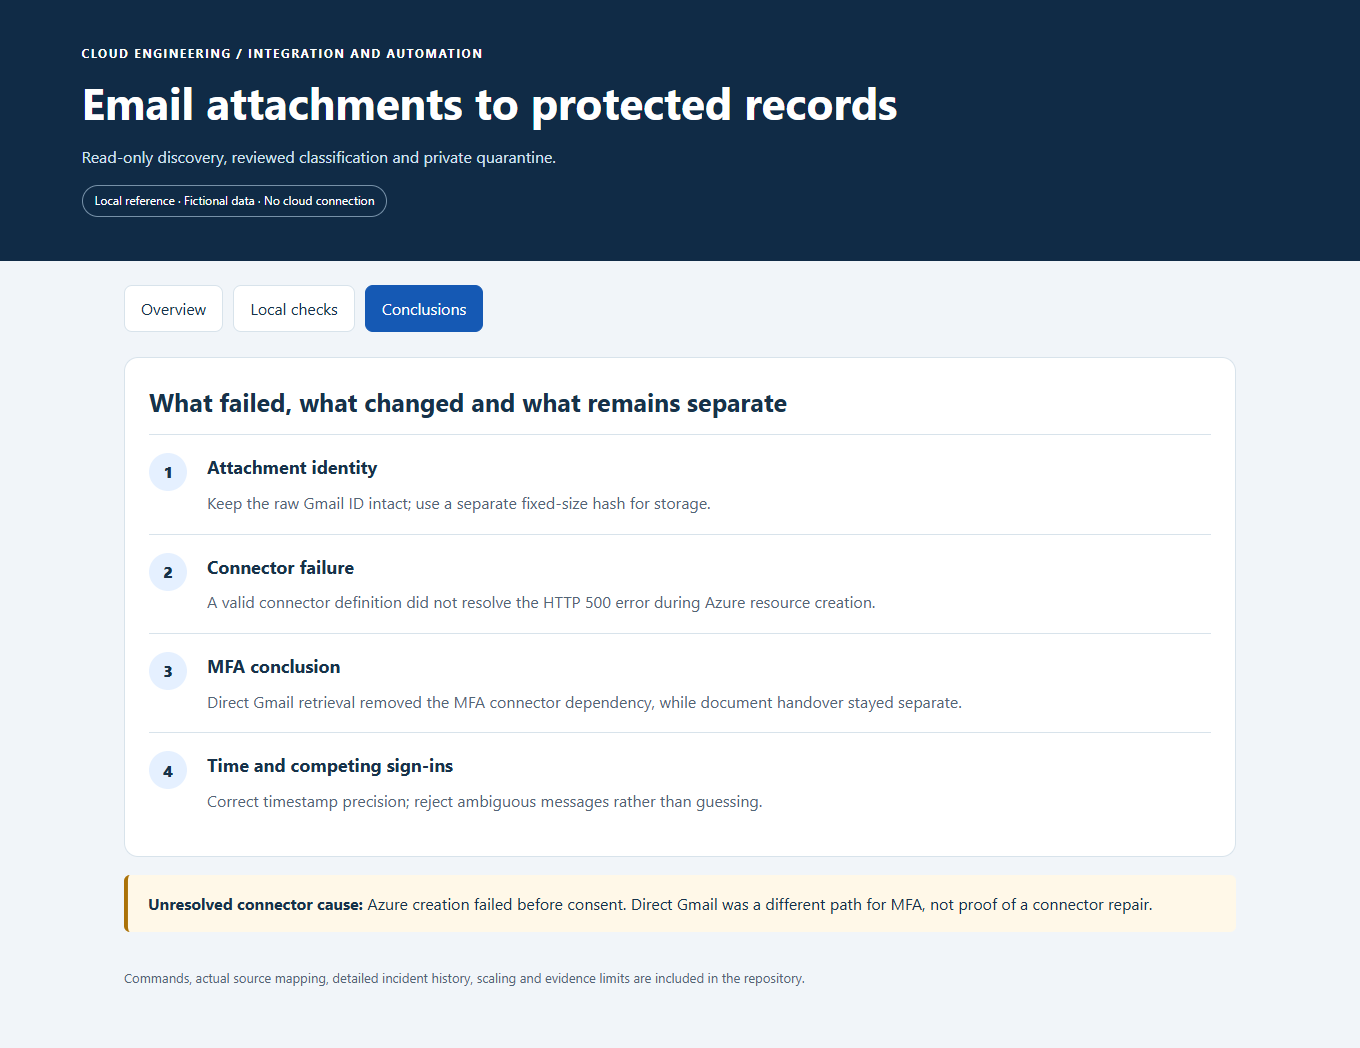
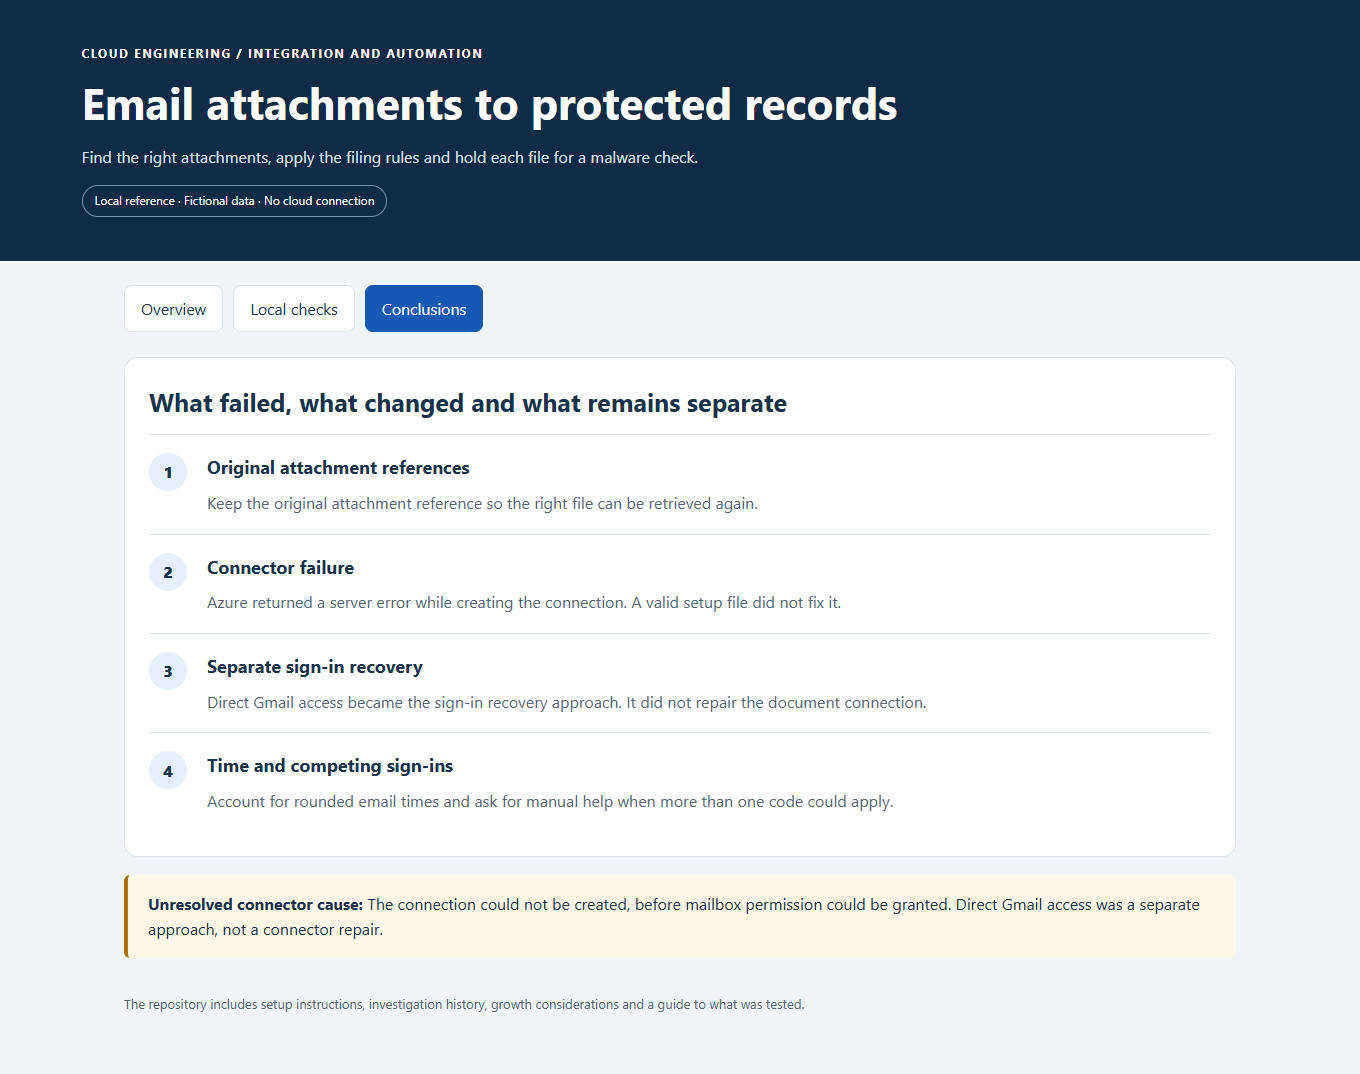
Lead with plain business explanations and retain technical detail separately

diff --git a/preview/index.html b/preview/index.html
@@ -1,10 +1,10 @@
 <!doctype html><html lang="en"><head><meta charset="utf-8"><meta name="viewport" content="width=device-width,initial-scale=1"><title>Email attachments to protected records</title><style>
 :root{color-scheme:light;--navy:#102b46;--ink:#17324a;--muted:#536576;--line:#d8e3eb;--blue:#1559b4;--teal:#086b5c}*{box-sizing:border-box}body{margin:0;background:#f1f5f9;color:var(--ink);font:16px/1.6 system-ui,sans-serif}header{background:var(--navy);color:white;padding:44px max(6vw,20px)}header p{max-width:780px;color:#d3e3f2}h1{font-size:clamp(29px,4vw,44px);line-height:1.15;max-width:850px;margin:14px 0}h2{font-size:25px;margin:0 0 12px}h3{font-size:18px;margin:0 0 8px}.eyebrow{text-transform:uppercase;letter-spacing:.13em;font-size:12px;font-weight:750}.pill{border:1px solid #7791a8;border-radius:20px;padding:5px 12px;font-size:12px;display:inline-block}main{max-width:1160px;margin:auto;padding:24px}nav{display:flex;gap:10px;flex-wrap:wrap;margin-bottom:25px}button{font:inherit;cursor:pointer;border:1px solid var(--line);background:white;color:var(--ink);border-radius:8px;padding:10px 16px}button[aria-selected=true]{background:var(--blue);color:white;border-color:var(--blue)}button:focus-visible{outline:3px solid #c98913;outline-offset:3px}.grid{display:grid;grid-template-columns:repeat(3,minmax(0,1fr));gap:18px}.card,.box{background:white;border:1px solid var(--line);border-radius:14px;padding:24px;margin-bottom:18px}.card p{color:var(--muted)}.big{font-size:27px;font-weight:750;color:var(--blue)}.note{padding:16px 20px;border-left:4px solid #ab7208;background:#fff8e8;border-radius:6px;margin:16px 0 24px}.step{display:grid;grid-template-columns:42px 1fr;gap:16px;padding:18px 0;border-top:1px solid var(--line)}.number{background:#e5f0ff;border-radius:50%;width:38px;height:38px;display:grid;place-items:center;font-weight:800}.step p{margin:0;color:var(--muted)}.table-wrap{overflow:auto}table{border-collapse:collapse;width:100%;text-align:left}th,td{border-bottom:1px solid var(--line);padding:13px 10px;vertical-align:top}th{font-size:13px;background:#edf3f8}.pass{color:var(--teal);font-weight:750}.blocked{color:#8a3b0a;font-weight:750}code{background:#edf3f8;border-radius:4px;padding:2px 5px;overflow-wrap:anywhere}footer{color:var(--muted);font-size:13px;padding:12px 0 35px}[hidden]{display:none!important}@media(max-width:700px){main{padding:16px}header{padding:30px 20px}.grid{grid-template-columns:1fr}.card,.box{padding:18px}th,td{padding:10px 7px;font-size:14px}}
 </style></head><body>
-    <header><div class="eyebrow">Cloud engineering / Integration and automation</div><h1>Email attachments to protected records</h1><p>Read-only discovery, reviewed classification and private quarantine.</p><span class="pill">Local reference · Fictional data · No cloud connection</span></header><main>
+    <header><div class="eyebrow">Cloud engineering / Integration and automation</div><h1>Email attachments to protected records</h1><p>Find the right attachments, apply the filing rules and hold each file for a malware check.</p><span class="pill">Local reference · Fictional data · No cloud connection</span></header><main>
     <nav role="tablist" aria-label="Project sections"><button id="tab-overview" role="tab" aria-controls="overview" aria-selected="true">Overview</button><button id="tab-checks" role="tab" aria-controls="checks" aria-selected="false">Local checks</button><button id="tab-conclusions" role="tab" aria-controls="conclusions" aria-selected="false">Conclusions</button></nav>
-    <section id="overview" role="tabpanel" aria-labelledby="tab-overview"><div class="grid"><article class="card"><div class="big">1</div><p>Find candidates with a five-minute schedule and a fixed query per run.</p></article><article class="card"><div class="big">2</div><p>Inspect nested email parts before retrieving qualifying attachments.</p></article><article class="card"><div class="big">3</div><p>Keep original identity and byte fingerprints for duplicate protection.</p></article></div><article class="box"><h2>Two related integrations. Different outcomes.</h2><p>The original document path uses Logic Apps, a custom Gmail connector, classification and quarantine. The later MFA attempt encountered connector creation failures and moved to direct Gmail API access.</p><p>Reusing an OAuth application does not share mailbox permission or processing history. Each integration must be authorized and checked separately.</p></article><div class="note"><strong>What this preview shows:</strong> Actual selected source and dated conclusions are included. This viewer performs no mailbox reads, code requests or cloud operations.</div></section>
-    <section id="checks" role="tabpanel" aria-labelledby="tab-checks" hidden><div class="box"><h2>Actual rules. Fictional inputs.</h2><p id="scope"></p><div class="table-wrap"><table><thead><tr><th>Scenario</th><th>Decision</th><th>Observed rule output</th></tr></thead><tbody id="results"></tbody></table></div></div><div class="note">A passing local rule does not prove a live OAuth grant, database claim, malware result or completed provider sign-in.</div></section>
-    <section id="conclusions" role="tabpanel" aria-labelledby="tab-conclusions" hidden><div class="box"><h2>What failed, what changed and what remains separate</h2><div class="step"><div class="number">1</div><div><h3>Attachment identity</h3><p>Keep the raw Gmail ID intact; use a separate fixed-size hash for storage.</p></div></div><div class="step"><div class="number">2</div><div><h3>Connector failure</h3><p>A valid connector definition did not resolve the HTTP 500 error during Azure resource creation.</p></div></div><div class="step"><div class="number">3</div><div><h3>MFA conclusion</h3><p>Direct Gmail retrieval removed the MFA connector dependency, while document handover stayed separate.</p></div></div><div class="step"><div class="number">4</div><div><h3>Time and competing sign-ins</h3><p>Correct timestamp precision; reject ambiguous messages rather than guessing.</p></div></div></div><div class="note"><strong>Unresolved connector cause:</strong> Azure creation failed before consent. Direct Gmail was a different path for MFA, not proof of a connector repair.</div></section>
-    <footer>Commands, actual source mapping, detailed incident history, scaling and evidence limits are included in the repository.</footer></main>
+    <section id="overview" role="tabpanel" aria-labelledby="tab-overview"><div class="grid"><article class="card"><div class="big">1</div><p>Look for relevant messages every five minutes, keeping the same search throughout the run.</p></article><article class="card"><div class="big">2</div><p>Inspect nested email parts before retrieving qualifying attachments.</p></article><article class="card"><div class="big">3</div><p>Keep the original attachment reference and a file fingerprint to help prevent duplicate processing.</p></article></div><article class="box"><h2>Two related integrations. Different outcomes.</h2><p>One project files email documents. Another helps restore a business sign-in using an emailed code. They share some history, but use different processing steps and have different results.</p><p>Using the same Google application does not automatically share mailbox permission or processing records. Each connection must be authorized and checked separately.</p></article><div class="note"><strong>What this preview shows:</strong> The repository includes selected implementation code and historical results. This viewer uses fictional data and does not read email or connect to cloud services.</div></section>
+    <section id="checks" role="tabpanel" aria-labelledby="tab-checks" hidden><div class="box"><h2>Try the rules with fictional examples.</h2><p id="scope"></p><div class="table-wrap"><table><thead><tr><th>Scenario</th><th>Decision</th><th>Detailed test output</th></tr></thead><tbody id="results"></tbody></table></div></div><div class="note">Passing these examples does not confirm a working live connection or completed sign-in.</div></section>
+    <section id="conclusions" role="tabpanel" aria-labelledby="tab-conclusions" hidden><div class="box"><h2>What failed, what changed and what remains separate</h2><div class="step"><div class="number">1</div><div><h3>Original attachment references</h3><p>Keep the original attachment reference so the right file can be retrieved again.</p></div></div><div class="step"><div class="number">2</div><div><h3>Connector failure</h3><p>Azure returned a server error while creating the connection. A valid setup file did not fix it.</p></div></div><div class="step"><div class="number">3</div><div><h3>Separate sign-in recovery</h3><p>Direct Gmail access became the sign-in recovery approach. It did not repair the document connection.</p></div></div><div class="step"><div class="number">4</div><div><h3>Time and competing sign-ins</h3><p>Account for rounded email times and ask for manual help when more than one code could apply.</p></div></div></div><div class="note"><strong>Unresolved connector cause:</strong> The connection could not be created, before mailbox permission could be granted. Direct Gmail access was a separate approach, not a connector repair.</div></section>
+    <footer>The repository includes setup instructions, investigation history, growth considerations and a guide to what was tested.</footer></main>
     <script>const tabs=[...document.querySelectorAll('[role=tab]')];function select(tab){for(const t of tabs){t.setAttribute('aria-selected',String(t===tab));document.getElementById(t.getAttribute('aria-controls')).hidden=t!==tab}}for(const tab of tabs){tab.addEventListener('click',()=>select(tab));tab.addEventListener('keydown',e=>{if(['ArrowLeft','ArrowRight'].includes(e.key)){e.preventDefault();const next=tabs[(tabs.indexOf(tab)+(e.key==='ArrowRight'?1:-1)+tabs.length)%tabs.length];select(next);next.focus()}})}fetch('/data.json').then(r=>{if(!r.ok)throw Error('Reference data could not be loaded');return r.json()}).then(data=>{document.getElementById('scope').textContent=data.scope;for(const values of data.results){const tr=document.createElement('tr');for(const value of values){const td=document.createElement('td');td.textContent=value;tr.append(td)}document.getElementById('results').append(tr)}}).catch(e=>{const p=document.createElement('p');p.setAttribute('role','alert');p.textContent=e.message;document.querySelector('main').prepend(p)});</script></body></html>

diff --git a/README.md b/README.md
@@ -1,6 +1,6 @@
 # Email Document Ingestion with Azure Logic Apps
 
-**Move qualifying email attachments into protected business records without manually filing every message.**
+**Automatically file selected email attachments and keep a record of where they came from.**
 
 [Business problem](#the-business-problem) · [Solution](#the-solution) · [Build issues](#what-went-wrong-and-what-we-learned) · [Proof](#proof-it-works) · [Commands](docs/COMMANDS.md)
 
@@ -8,55 +8,59 @@
 
 ## The Business Problem
 
-Important authorization documents arrived as email attachments. Leaving them in an inbox made filing, retrieval and audit preparation harder. Automatically downloading everything would create a different problem: unrelated files, duplicates and unchecked documents entering business records.
+Important documents arrived as email attachments. Keeping them in an inbox made filing, retrieval and audit preparation harder. Downloading every attachment would also bring in unrelated, duplicate or unchecked files.
 
 ## The Solution
 
-Use a scheduled Consumption Logic App to find candidate messages through a read-only Gmail connector. Have the application API inspect attachments within the message and check the approved sender, filename and any extra message rules. Retrieve only qualifying attachments, preserve their origin and place the files in a private quarantine container for malware checking.
+I used Azure Logic Apps, a service for connecting scheduled tasks, to look for relevant messages. The application checks the sender, filename and filing rules before retrieving an attachment.
 
-**Business outcome:** A repeatable filing path ties each accepted document to its source and rule version. Duplicate protection reduces repeat processing when polling windows overlap. The project does not claim measured time savings or a complete mailbox migration.
+Selected files go into private storage for a malware check. The application keeps their source details and checks for duplicates.
+
+**Business outcome:** The implementation provides a repeatable filing process with a traceable source for each accepted document. The project also records a later connector replacement that remained blocked; it does not claim a completed mailbox migration.
 
 ## Architecture
 
 ```mermaid
 flowchart LR
-  Mail[Authorized Gmail inbox] --> Connector[Read-only custom connector]
-  Connector --> Logic[Five-minute Logic App]
-  Logic --> Planner[API checks message parts and filing rules]
-  Planner --> Selected[Fetch selected attachment]
-  Selected --> API[Inbound document API]
-  API --> Ledger[SQL source records and duplicate protection]
-  API --> Quarantine[Private Blob quarantine]
-  Quarantine --> Scan[Separate Defender and scan-processing chain]
-  Scan --> Trusted[Trusted document and metadata]
+  Inbox[Authorized email inbox] --> Schedule[Look for relevant messages every five minutes]
+  Schedule --> Rules[Check attachment and filing rules]
+  Rules --> History[Record the source and check for duplicates]
+  History --> Hold[Hold the file in private storage]
+  Hold --> Scan[Run the separate malware check]
+  Scan --> Available[Make eligible files available to authorized staff]
 ```
 
-Gmail OAuth authorizes mailbox reads. The Logic App's managed identity authorizes calls to the application API. Those are separate permissions. The API requires an application role; its own authentication middleware handles access.
+Permission to read Gmail is separate from permission to save documents in the application.
 
 ## What Was Built
 
-| Component | Purpose | Included implementation |
+| Part | What it does | Details |
 | --- | --- | --- |
-| Read-only Gmail contract | List messages, read a message and retrieve a selected attachment | [OpenAPI](contracts/gmail-readonly.openapi.json) |
-| Scheduled ingestion process | Five-minute recurrence, fixed search per run, pagination, protected action history and managed-identity API calls | [Terraform](infra/logic-app/main.tf) |
-| Attachment selection | Check nested message parts and select attachments that match exactly one configured rule | [Planner](src/planner/inboundgmailmessageplan.ts) |
-| Upload validation and duplicate checks | Validate bytes and metadata; preserve raw attachment IDs; calculate fingerprints and duplicate identity | [Contract](src/contracts/inboundDocumentIngestion.ts), [rules](src/documents/inboundDocumentRules.ts) |
-| API and database integration | SQL ledger, replay/conflict handling and full route dependencies | [Route](reference/inbounddocumentingestion-route.ts), [SQL](reference/037-inbound-document-ledger.sql) |
-| Historical conclusions | Distinguish original ingestion repairs from the later MFA connector attempt | [Issues and conclusions](docs/ISSUES-AND-CONCLUSIONS.md) |
+| Scheduled email search | Finds possible documents and handles multiple pages of results. | [Logic App definition](infra/logic-app/main.tf) |
+| Filing rules | Selects attachments that match exactly one approved rule. | [Selection code](src/planner/inboundgmailmessageplan.ts) |
+| File checks | Validates the submitted file and its identifying details. | [Upload checks](src/contracts/inboundDocumentIngestion.ts) |
+| Processing records | Tracks the original message and attachment and distinguishes a retry from different content. | [Application code](reference/inbounddocumentingestion-route.ts) and [database](reference/037-inbound-document-ledger.sql) |
+| Investigation history | Explains what was repaired and what remained unresolved. | [Issues and conclusions](docs/ISSUES-AND-CONCLUSIONS.md) |
 
 ## What Went Wrong and What We Learned
 
-| Problem | Conclusion or correction |
+| Issue | What changed or remained unresolved |
 | --- | --- |
-| Gmail attachment IDs exceeded a 200-character assumption | Keep the original ID intact. Use a domain-separated hash when a fixed-size database reference is needed. |
-| Successful historical Logic App runs did not expose the expected retained Response output | The expected output was unavailable. A separate controlled read recovered the needed metadata instead of repeatedly requesting missing run output. |
-| Recalculating a time-based search between pages moved the query boundary | The replacement source captures one query and reuses it on every page. The code correction is included; a live replacement test was not completed. |
-| Replacement connector creation returned Azure HTTP 500 before OAuth | No confirmed connector root cause or successful replacement commissioning was established. Longer timeouts and valid OpenAPI alone were not a fix. |
-| A later provider MFA effort encountered the connector problem too | Direct Gmail API access became the separate MFA solution. It did not repair or replace document ingestion. |
+| Some attachment identifiers were longer than expected. | The code now preserves the full identifier and uses a separate fixed-size reference for storage. |
+| The email search could change while reading later pages. | The replacement code keeps one search for the whole run. A live replacement test was not completed. |
+| A replacement connector failed during Azure resource creation. | Valid setup instructions did not resolve the service error. Its underlying cause remained unknown. |
+| A later sign-in recovery effort hit the same connector problem. | Direct Gmail access became the separate recovery approach; it did not repair this document connector. |
 
-See [the linked Gmail access and MFA project](https://github.com/truthofsource/gmail-api-access-and-mfa-recovery) for that conclusion, OAuth lifecycle and the timestamp-precision repair.
+[Read the investigation](docs/ISSUES-AND-CONCLUSIONS.md) or see the separate [Gmail recovery project](https://github.com/truthofsource/gmail-api-access-and-mfa-recovery).
 
 ## Proof It Works
+
+**32 recorded local tests passed** using fictional messages. They checked attachment selection, conflicting rules, long identifiers and repeat-processing decisions. Two infrastructure test cases used simulated Azure responses.
+
+These checks tested the included code and disabled setup example. They did not read a live mailbox or establish that the replacement connector worked. [Full results](docs/VALIDATION.md).
+
+<details>
+<summary>For engineers: detailed results, examples and commands</summary>
 
 ### 1. Run the extracted rules
 
@@ -87,15 +91,18 @@ python -B scripts/preview.py --port 8141
 
 Open [the local reference](http://127.0.0.1:8141). The Terraform tests use simulated Azure responses. By default, the example creates no workflow; choosing to create it still leaves its execution disabled. No `apply` is required or performed.
 
+</details>
+
 ## Strengths, Weaknesses and Tradeoffs
 
-| Choice | Strength | Limitation |
-| --- | --- | --- |
-| Logic Apps orchestration | Makes schedules and processing steps visible | Connector provisioning, consent and per-action costs remain dependencies |
-| Deterministic classification | Avoids treating every email attachment as a business record | Rule changes require review; a sender header alone is not cryptographic sender proof |
-| Overlapping searches and duplicate checks | Helps tolerate repeated discovery | A 15-minute lookback is not a durable cursor or outage recovery |
-| Private quarantine | Keeps received bytes untrusted until checked | Scanner backlog and event failures need independent monitoring |
-| Original IDs plus hashes | Keeps retrieval and database identities consistent | Keep the original attachment ID for retrieval and retry checks, even when a hash is used as a database reference |
+| Benefit | Limitation |
+| --- | --- |
+| Scheduled filing reduces the need to handle each matching attachment manually. | Connections, permissions and service costs still need maintenance. |
+| Duplicate checks tolerate overlapping searches. | A longer outage needs a separate plan to find missed messages. |
+| Files wait for a malware check. | A paused scanner or processing backlog can delay availability. |
+| Source details support investigation and audits. | Matching a sender address alone does not establish that an email is genuine. |
+
+As volume grows, measure processing delays and missed time ranges before increasing parallel work. Preserve duplicate protection when adding more workers. [Operations and growth](docs/OPERATIONS-AND-SCALING.md).
 
 ## Guides
 

diff --git a/docs/VALIDATION.md b/docs/VALIDATION.md
@@ -30,3 +30,15 @@ scripts remained unchanged; this pass changed text and screenshots only.
 
 These browser checks did not repeat cloud acceptance or the earlier code tests.
 No Azure service, Gmail account, provider session or hosted Actions run was used.
+
+## Plain-language review - November 7, 2026
+
+The main overview now starts with the business problem, the solution and the
+practical outcome. Technical commands and detailed results remain available in
+expandable sections and linked guides. Links, heading anchors, formatting and
+expandable sections were checked. Earlier code-test and cloud results remain
+historical; this wording pass did not repeat those tests.
+
+The fictional preview was also simplified, its screenshots refreshed, and its
+desktop tabs and 390-pixel mobile layout checked locally. Browser requests were
+restricted to the local preview; HTML structure and embedded scripts were unchanged.
